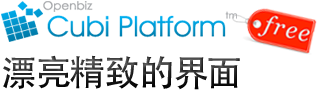
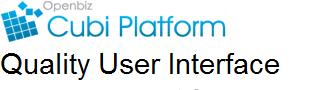
translate cubi screenshot page

Changed region(s): [[0.0, 0.5778, 0.9057, 1.0], [0.7075, 0.0889, 1.0, 0.6]]

diff --git a/docs/openbiz.en/general/style/general.css b/docs/openbiz.en/general/style/general.css
@@ -454,12 +454,14 @@ display:block;
 }
 #site-header .top-header .menu ul li a{
 	display:block;
-	padding-left:28px;
-	padding-right:28px;
+	padding-left:20px;
+	padding-right:20px;
 	padding-top:38px;
 	padding-bottom:10px;
 	color:#666666;
 	border-bottom:none;
+	font-size:14px;
+	font-weight:bold;
 }
 #site-header .top-header .menu ul li a:hover{
 	padding-bottom:10px;

diff --git a/docs/openbiz.en/developer/cubi/screenshot.php b/docs/openbiz.en/developer/cubi/screenshot.php
@@ -3,7 +3,7 @@
 <html xmlns="http://www.w3.org/1999/xhtml">
 <head>
 <meta http-equiv="Content-Type" content="text/html; charset=UTF-8" />
-<title>漂亮的用户界面 － Openbiz Cubi Platform － <?php echo SITE_NAME;?></title>
+<title>Quality UI － Openbiz Cubi Platform － <?php echo SITE_NAME;?></title>
 <link rel="icon" href="favicon.ico" type="image/x-icon" />
 <link rel="shortcut icon" href="favicon.ico" type="image/x-icon" /> 
 <link href="../../general/style/general.css" rel="stylesheet" type="text/css" />
@@ -64,10 +64,10 @@ $(document).ready(function(){
 				<div class="desc">
 					<h1 style="height:auto;"><a href="cubi/"><img src="image/screenshot/banner-title.png" title="Openbiz Cubi Platform"/></a></h1>
 					<div style="padding-left:5px;">
-					<h2 >给客户留下专业清爽之感</h2>
-					<p>我们关注了让用户感受到的每一个小细节，<br/>让您在客户面前留下一个专业高品质的印象。</p>
+					<h2 >Impressive professional design</h2>
+					<p>Openbiz Cubi tunes look and feel on each detail <br/>You have built-in high quality user interface</p>
 					<p class="buttons">
-						<a class="blue-button-go" href="#" >免费获取</a>
+						<a class="blue-button-go" href="#" >Download</a>
 					</p>
 					</div>
 				</div>
@@ -78,114 +78,114 @@ $(document).ready(function(){
 	
 	<div class="content">
 		<div class="page-splitter"></div>	
-		<h2>基础功能样式</h2>
-		<p>快速了解一下基于Openbiz Cubi平台创建的应用程序究竟是什么样子。</p>
+		<h2>Basic UI Styles</h2>
+		<p>Let's have a quick look at the look and feel of a typical Openbiz Cubi application.</p>
 		<table class="screenshots">
 			<tr>
 				<td>
-					<a rel="screenshots-basic" href="../cubi/image/screenshot-intro-1-large.png" title="Openbiz Cubi - 系统管理员截面">
+					<a rel="screenshots-basic" href="../cubi/image/screenshot-intro-1-large.png" title="Openbiz Cubi - application administration page">
 					<img src="image/screenshot/screenshot-basic-1.png" />
-					<span>系统管理员界面</span>
+					<span>Administration page</span>
 					</a>
 				</td>
 				<td>
-					<a rel="screenshots-basic" href="../cubi/image/screenshot-intro-2-large.png" title="Openbiz Cubi - 数据列表视图">
+					<a rel="screenshots-basic" href="../cubi/image/screenshot-intro-2-large.png" title="Openbiz Cubi - data listing view">
 					<img src="image/screenshot/screenshot-basic-2.png" />
-					<span>数据列表界面</span>
+					<span>Data listing page</span>
 					</a>
 				</td>
 				<td>
-					<a rel="screenshots-basic" href="../cubi/image/screenshot-intro-3-large.png" title="Openbiz Cubi - 数据详情视图">
+					<a rel="screenshots-basic" href="../cubi/image/screenshot-intro-3-large.png" title="Openbiz Cubi - data detail view">
 					<img src="image/screenshot/screenshot-basic-3.png" />
-					<span>数据详情界面</span>
+					<span>Data detail page</span>
 					</a>
 				</td>
 				<td>
-					<a rel="screenshots-basic" href="../cubi/image/screenshot-intro-4-large.png" title="Openbiz Cubi - 数据编辑视图">
+					<a rel="screenshots-basic" href="../cubi/image/screenshot-intro-4-large.png" title="Openbiz Cubi - data editing view">
 					<img src="image/screenshot/screenshot-basic-4.png" />
-					<span>数据编辑界面</span>
+					<span>Data editing page</span>
 					</a>
 				</td>
 			</tr>
 		</table>
-		<p>这些界面将是我们每天都与之打交道的界面，它有自己统一的风格和使用习惯，这样的设计是为了让用户可以快速上手一个新的应用。因为每个应用的界面和操作习惯都是尽可能保持一致，不会让您的用户觉得无从下手。</p>
+		<p>These pages are interfaces that end users work on everyday. The same look and feel across all pages can keep your applications with consistant user experience. Users will work more efficiently without questions and confusions.</p>
 		
 		<div class="page-splitter"></div>
-		<h2>高级特性样式</h2>
-		<p>除了基本风格统一的基础特性之外，Openbiz Cubi 应用平台还为扩展应用领域支持了更多高级展现逻辑。<br/>
-		这将会成为您的应用系统的绝对亮点，让您的应用限的格外专业。</p>
+		<h2>Advanced UI Styles</h2>
+		<p>Basides consistant basic page styles, Openbiz Cubi supports a lot of advanced UI elements at platform level. <br/>
+		These professional widgets will be the highlights of your applications.</p>
 		<table class="screenshots">
 			<tr>
 				<td>
-					<a rel="screenshots-advanced" href="image/screenshot/screenshot-advanced-1-large.png" title="Openbiz Cubi - 地图特性">
+					<a rel="screenshots-advanced" href="image/screenshot/screenshot-advanced-1-large.png" title="Openbiz Cubi - map">
 					<img src="image/screenshot/screenshot-advanced-1-small.png" />
-					<span>地图特性</span>
+					<span>Map</span>
 					</a>
 				</td>
 				<td>
-					<a rel="screenshots-advanced" href="image/screenshot/screenshot-advanced-2-large.png" title="Openbiz Cubi - 图表特性">
+					<a rel="screenshots-advanced" href="image/screenshot/screenshot-advanced-2-large.png" title="Openbiz Cubi - chart">
 					<img src="image/screenshot/screenshot-advanced-2-small.png" />
-					<span>图表特性</span>
+					<span>Chart</span>
 					</a>
 				</td>
 				<td>
-					<a rel="screenshots-advanced" href="image/screenshot/screenshot-advanced-3-large.png" title="Openbiz Cubi - 日历特性">
+					<a rel="screenshots-advanced" href="image/screenshot/screenshot-advanced-3-large.png" title="Openbiz Cubi - calendar">
 					<img src="image/screenshot/screenshot-advanced-3-small.png" />
-					<span>日历特性</span>
+					<span>Calendar</span>
 					</a>
 				</td>
 				<td>
-					<a rel="screenshots-advanced" href="image/screenshot/screenshot-advanced-4-large.png" title="Openbiz Cubi - 甘特图特性">
+					<a rel="screenshots-advanced" href="image/screenshot/screenshot-advanced-4-large.png" title="Openbiz Cubi - gantt chart">
 					<img src="image/screenshot/screenshot-advanced-4-small.png" />
-					<span>甘特图特性</span>
+					<span>Gantt chart</span>
 					</a>
 				</td>
 			</tr>
 			
 			<tr>	
 				<td>
-					<a rel="screenshots-advanced" href="image/screenshot/screenshot-advanced-5-large.png" title="Openbiz Cubi - 多步向导特性">
+					<a rel="screenshots-advanced" href="image/screenshot/screenshot-advanced-5-large.png" title="Openbiz Cubi - wizard">
 					<img src="image/screenshot/screenshot-advanced-5-small.png" />
-					<span>多步向导特性</span>
+					<span>Multi-step wizard</span>
 					</a>
 				</td>
 				<td>
-					<a rel="screenshots-advanced" href="image/screenshot/screenshot-advanced-6-large.png" title="Openbiz Cubi - 读卡器控件">
+					<a rel="screenshots-advanced" href="image/screenshot/screenshot-advanced-6-large.png" title="Openbiz Cubi - card reader">
 					<img src="image/screenshot/screenshot-advanced-6-small.png" />
-					<span>读卡器控件</span>
+					<span>Card reader</span>
 					</a>
 				</td>
 				<td>
-					<a rel="screenshots-advanced" href="image/screenshot/screenshot-advanced-7-large.png" title="Openbiz Cubi - 条码扫描枪控件">
+					<a rel="screenshots-advanced" href="image/screenshot/screenshot-advanced-7-large.png" title="Openbiz Cubi - barcode scanner">
 					<img src="image/screenshot/screenshot-advanced-7-small.png" />
-					<span>条码扫描枪控件</span>
+					<span>Barcode scanner</span>
 					</a>
 				</td>
 				<td>
-					<a rel="screenshots-advanced" href="image/screenshot/screenshot-advanced-8-large.png" title="Openbiz Cubi - 数据共享特性">
+					<a rel="screenshots-advanced" href="image/screenshot/screenshot-advanced-8-large.png" title="Openbiz Cubi - data sharing">
 					<img src="image/screenshot/screenshot-advanced-8-small.png" />
-					<span>数据共享特性</span>
+					<span>Data sharing</span>
 					</a>
 				</td>
 			</tr>			
 			
 			<tr>	
 				<td>
-					<a rel="screenshots-advanced" href="image/screenshot/screenshot-advanced-9-large.png" title="Openbiz Cubi - 电子邮件集成特性">
+					<a rel="screenshots-advanced" href="image/screenshot/screenshot-advanced-9-large.png" title="Openbiz Cubi - email">
 					<img src="image/screenshot/screenshot-advanced-9-small.png" />
-					<span>电子邮件集成特性</span>
+					<span>Email integration</span>
 					</a>
 				</td>
 				<td>
-					<a rel="screenshots-advanced" href="image/screenshot/screenshot-advanced-10-large.png" title="Openbiz Cubi - 社交账号绑定">
+					<a rel="screenshots-advanced" href="image/screenshot/screenshot-advanced-10-large.png" title="Openbiz Cubi - social network">
 					<img src="image/screenshot/screenshot-advanced-10-small.png" />
-					<span>社交账号绑定</span>
+					<span>Social accounts</span>
 					</a>
 				</td>
 				<td>
-					<a rel="screenshots-advanced" href="image/screenshot/screenshot-advanced-11-large.png" title="Openbiz Cubi - 用户登陆">
+					<a rel="screenshots-advanced" href="image/screenshot/screenshot-advanced-11-large.png" title="Openbiz Cubi - user login">
 					<img src="image/screenshot/screenshot-advanced-11-small.png" />
-					<span>用户登陆</span>
+					<span>User login</span>
 					</a>
 				</td>
 				<td>
@@ -195,65 +195,64 @@ $(document).ready(function(){
 		</table>
 
 		<div class="page-splitter"></div>
-		<h2>精致的细节</h2>
-		<p>这是Openbiz宣称注重用户体验的绝佳体现。
-			为了取悦您和最终用户的眼睛，我们在这几个像素的细节效果上花费了数年的精力去不断完善。这也许是您看不到，甚至不在意的，但细节所带您和用户的感受，我们相信将成为决胜未来的关键因素。 
+		<h2>Fine-Tuned Details</h2>
+		<p>Openbiz Cubi has strength on providing superb user experience. Openbiz designers and developers have spent long hours on adjusting pixels to make the perfect display effects. The efforts can help you win the trust from your clients. 
 		</p>
 		<table class="screenshots-detail">
 			<tr>
 				<td>
 					<img src="image/screenshot/screenshot-detail-1.png" />
-					<span>帮助菜单的按钮</span>
+					<span>Collapse & expend button</span>
 				</td>
 				<td>
 					<img src="image/screenshot/screenshot-detail-2.png" />
-					<span>表格按列排序</span>
+					<span>Sorting on grid</span>
 				</td>
 				<td>					
 					<img src="image/screenshot/screenshot-detail-3.png" />
-					<span>日历特性</span>				
+					<span>Auto suggestion</span>				
 				</td>
 				<td>
 					<img src="image/screenshot/screenshot-detail-4.png" />
-					<span>列表翻页细节</span>
+					<span>Paging</span>
 				</td>
 			</tr>
 			
 			<tr>
 				<td>
 					<img src="image/screenshot/screenshot-detail-5.png" />
-					<span>帮助菜单的按钮</span>
+					<span>Form icon</span>
 				</td>
 				<td>
 					<img src="image/screenshot/screenshot-detail-6.png" />
-					<span>表格按列排序</span>
+					<span>Mouse click, hover effects</span>
 				</td>
 				<td>					
 					<img src="image/screenshot/screenshot-detail-7.png" />
-					<span>日历特性</span>				
+					<span>Image dropdown list</span>				
 				</td>
 				<td>
 					<img src="image/screenshot/screenshot-detail-8.png" />
-					<span>列表翻页细节</span>
+					<span>Context menu</span>
 				</td>
 			</tr>
 			
 			<tr>
 				<td>
 					<img src="image/screenshot/screenshot-detail-9.png" />
-					<span>帮助菜单的按钮</span>
+					<span>Text input effects</span>
 				</td>
 				<td>
 					<img src="image/screenshot/screenshot-detail-10.png" />
-					<span>表格按列排序</span>
+					<span>Notification text</span>
 				</td>
 				<td>					
 					<img src="image/screenshot/screenshot-detail-11.png" />
-					<span>日历特性</span>				
+					<span>Tabs</span>				
 				</td>
 				<td>
 					<img src="image/screenshot/screenshot-detail-12.png" />
-					<span>列表翻页细节</span>
+					<span>Page loader</span>
 				</td>
 			</tr>					
 						
@@ -263,9 +262,8 @@ $(document).ready(function(){
 		<div class="bottom-info-block">
 			<table>
 				<tr>
-					<td><a class="blue-button-go" href="#" >免费获取</a></td>
-					<td><p>Openbiz Cubi的系统界面设计关注每一个小细节，给人清爽、专业、细腻之感，让您在客户面前留下的高品质的印象。<br/>
-						赶快下载Openbiz Cubi，专为企业级应用开发而设计。</p>
+					<td><a class="blue-button-go" href="#" >Download</a></td>
+					<td><p>Download Openbiz Cubi today to show the quality of your design work.</p>
 					</td>
 				</tr>
 			</table>

diff --git a/docs/openbiz.en/developer/cubi/_include/_cubi-navigation.php b/docs/openbiz.en/developer/cubi/_include/_cubi-navigation.php
@@ -6,8 +6,8 @@
 		<ul>			
 			<li><a class="introduction" 		href="./">Introduction</a></li>
 			<li><a class="rich-modules" 		href="rich-modules.php">Rich Components</a></li>
-			<li><a class="screenshot"			href="screenshot.php">Cool UI</a></li>			
-			<li><a class="create-your-brand" 	href="create-your-brand.php">Creat Your Brand</a></li>
+			<li><a class="screenshot"			href="screenshot.php">Quality UI</a></li>			
+			<li><a class="create-your-brand" 	href="create-your-brand.php">My Brand</a></li>
 			<li><a class="testimonials" 		href="testimonials.php">Testimonials</a></li>			
 			<li><a class="quick-start" 			href="quick-start.php">Quick Start</a></li>			
 		</ul>
